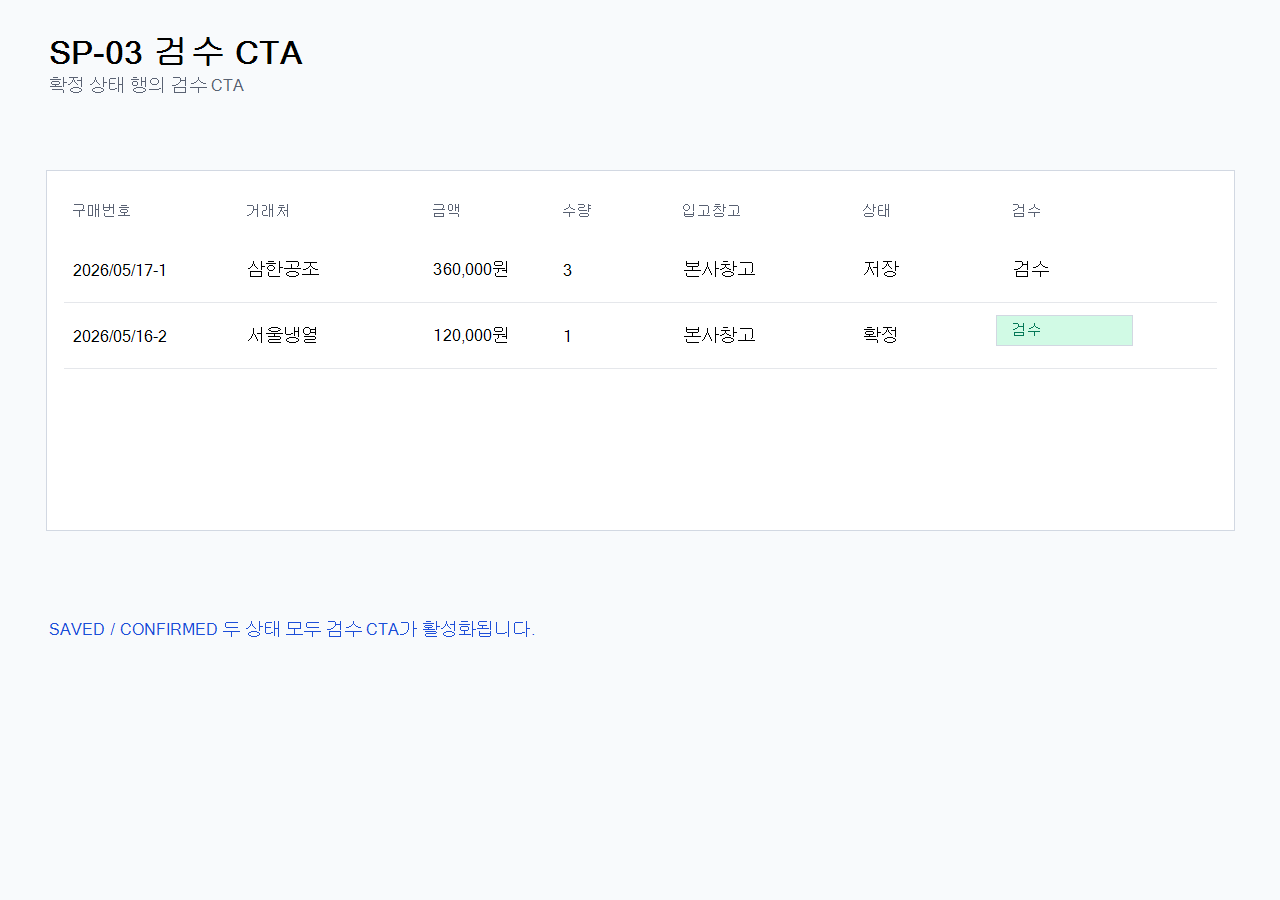
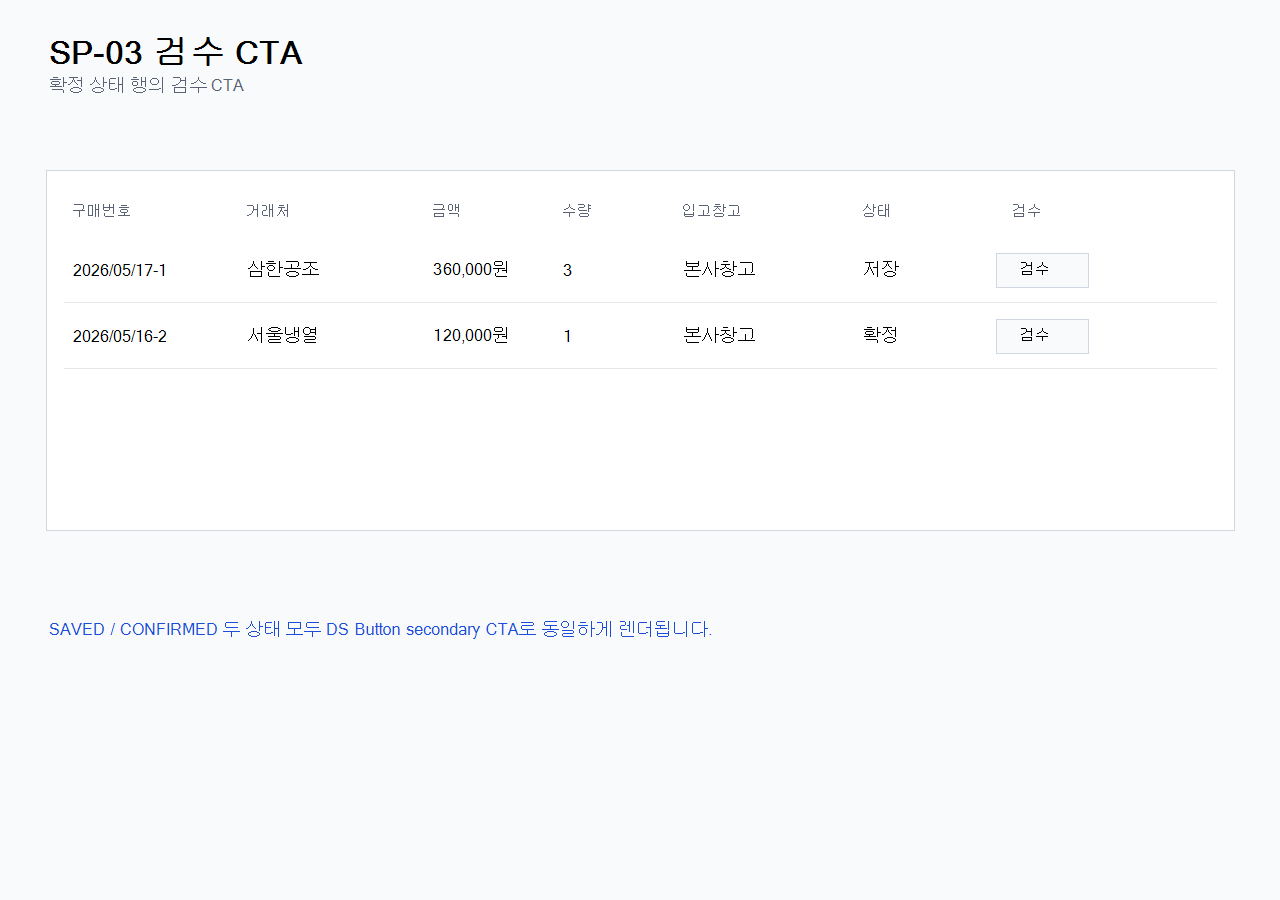
fix(sp-08-5-1): 사이클 2 2c Codex fix — P2 2건 마지막 cleanup + 메모리 6/7회차 정정 (PR 내 해결 + 멈춤 없이 자동)
Codex 5-agent 2a 자체 발견 P2 2건 처리. PR 내 모든 문제 해결 완료.

P2-1: SlipQueryPurchaseIT INBOUND detail negative auth IT 3건 신규
- testGetDetailForbiddenForInventory
- testGetDetailForbiddenForSales
- testGetDetailForbiddenForAccountant
- SlipController#getOne guardInboundPurchaseRead 회귀 보호

P2-2: PNG 05 05-confirmed-inspection-cta.png 재생성
- PurchaseQueryPage 실 구현 정합 (SAVED/CONFIRMED 모두 DS Button variant="secondary")
- 초록 custom CTA 제거

메모리 가드 (6회차 + 양쪽 TM 등록):
- feedback_dual_5agent_review.md: PR 내 모든 문제 해결 + 후속 슬라이스 백로그 금지 + PM 자동 머지 후 다음 슬라이스 자동 진입 (사용자 6회차)
- 2b TM Codex 통합 등록 의무 (PR #220 사이클 1 회고)

검증:
- Gradle IT 21 PASS (18 기존 + 3 detail negative)
- Desktop typecheck / lint PASS
- PNG 05 재생성
- git diff --check exit 0

연관 PR: #220

Changed region(s): [[0.25, 0.6844, 0.5312, 0.7156], [0.7812, 0.3422, 0.9062, 0.4044], [0.7812, 0.28, 0.8125, 0.3111]]

diff --git a/services/slip-service/src/test/java/com/samhanair/logis/slip/it/SlipQueryPurchaseIT.java b/services/slip-service/src/test/java/com/samhanair/logis/slip/it/SlipQueryPurchaseIT.java
@@ -294,6 +294,39 @@ class SlipQueryPurchaseIT extends AbstractPostgresIT {
     }
 
     @Test
+    @DisplayName("R2: INVENTORY는 INBOUND 매입 상세 조회 권한에서 제외된다")
+    void testGetDetailForbiddenForInventory() throws Exception {
+        String id = createSlip("INBOUND", TODAY, "SP0851-DETAIL-INVENTORY-FORBIDDEN");
+
+        mockMvc.perform(get(SLIPS_PATH + "/" + id)
+                        .header(USER_ID_HEADER, TEST_USER_ID.toString())
+                        .header(USER_ROLE_HEADER, "INVENTORY"))
+                .andExpect(status().isForbidden());
+    }
+
+    @Test
+    @DisplayName("R2: SALES는 INBOUND 매입 상세 조회 권한에서 제외된다")
+    void testGetDetailForbiddenForSales() throws Exception {
+        String id = createSlip("INBOUND", TODAY, "SP0851-DETAIL-SALES-FORBIDDEN");
+
+        mockMvc.perform(get(SLIPS_PATH + "/" + id)
+                        .header(USER_ID_HEADER, TEST_USER_ID.toString())
+                        .header(USER_ROLE_HEADER, "SALES"))
+                .andExpect(status().isForbidden());
+    }
+
+    @Test
+    @DisplayName("R2: ACCOUNTANT는 INBOUND 매입 상세 조회 권한에서 제외된다")
+    void testGetDetailForbiddenForAccountant() throws Exception {
+        String id = createSlip("INBOUND", TODAY, "SP0851-DETAIL-ACCOUNTANT-FORBIDDEN");
+
+        mockMvc.perform(get(SLIPS_PATH + "/" + id)
+                        .header(USER_ID_HEADER, TEST_USER_ID.toString())
+                        .header(USER_ROLE_HEADER, "ACCOUNTANT"))
+                .andExpect(status().isForbidden());
+    }
+
+    @Test
     @DisplayName("R1: 같은 전표일자는 seqNo DESC 순으로 반환한다")
     void testListInboundOrderBySeqNo() throws Exception {
         String firstId = createSlip("INBOUND", TODAY, "SP0851-SEQ-1");

diff --git a/.claude/memory/feedback_dual_5agent_review.md b/.claude/memory/feedback_dual_5agent_review.md
@@ -69,10 +69,12 @@ metadata:
 - 사이클 N=3 안 완료 의무 (2026-05-17 4회차 정정)
 - 종료 시 사용자/PM 머지 결정 (`feedback_user_merge_authority.md` PM 자동 머지 가능)
 
-## 결함 fix 정책 (2026-05-17 사용자 정정 5회차 — 최종)
+## 결함 fix 정책 (2026-05-17 사용자 정정 6회차 — 최종)
 
-- **사이클 N=3 안 완료 의무** — PR 1건당 사이클 1, 2, 3 안에서 모든 결함 (P0/P1/P2/Nit/non-blocker) fix + 머지. 사이클 4 이상 진행 금지.
-- **사이클 1회 = Claude review → Claude fix → Codex review → Codex fix** (사용자 5회차 정정). 사이클 N.5 통합 fix 단계 폐기.
+- **PR 내 모든 문제 PR 안에서 해결** (2026-05-17 6회차) — P0/P1/P2/Nit/non-blocker 전부 본 PR 사이클 안에서 fix. **후속 슬라이스 백로그로 미루지 않음**. "후속 슬라이스 처리 가능", "non-blocker 백로그", "후속 cleanup" 등 표현 금지.
+- **사이클 N=3 안 완료 의무** — 사이클 1, 2, 3 안 모든 결함 fix + **PM 자동 머지** (사용자 확인 대기 X). 사이클 4 이상 진행 금지.
+- **PM 자동 머지 + 다음 슬라이스 자동 진입** — 결함 모두 해결 + CI green 시 사용자 확인 없이 squash 머지 + 다음 슬라이스 자동 시작.
+- **사이클 1회 = Claude review → Claude fix → Codex review → Codex fix** (5회차 정정). 사이클 N.5 통합 fix 단계 폐기.
 - **양쪽 fix 책임 분담**: Claude 는 자체 review 결함 + Codex valid 예상 결함 (선제적), Codex 는 자체 review 결함 + Claude valid 항목 중 미처리 보완.
 - **한 사이클당 가능한 한 모든 결함 묶어 fix** — Codex fix 직후 본 사이클 결함 0 도달이 목표.
 - **사이클 3 review 까지 잔존 결함 0 도달 못 한 경우**: blocker 만 fix 후 머지, Nit/non-blocker 는 후속 슬라이스 백로그.
@@ -83,6 +85,7 @@ metadata:
 ## 운영 규칙
 
 - **PR 코멘트는 TM 통합 2건** — Claude TM 통합 1 + Codex TM 통합 1 = **사이클 1회당 2 PR comment**. 가독성 우선, 각자 5+5=10 별도 등록 폐기 (2026-05-17 사용자 정정).
+- **양쪽 TM 통합 등록 의무** (2026-05-17 PR #220 사이클 1 회고): 5회차 워크플로우는 1b TM Claude 등록 → 1c Claude fix → **2a Codex review → 2b TM Codex 등록 필수** → 2c Codex fix. 2b 등록 누락하면 사용자가 양쪽 review 비교 불가. Codex fix 진행 전 반드시 2b PR comment 등록 검증.
 - **각 agent 5건 raw markdown** — 작업 산출물은 `docs/qa/<slug>/claude-{role}-cycle-N.md` / `codex-{role}-cycle-N.md` 로 저장만 (PR comment 등록 X, repo commit X). TM 통합 markdown 작성 시 source 자료.
 - **head SHA 명시** — TM 통합 코멘트 첫 줄에 "head `<sha>` 기준" 명시 (사이클별 추적).
 - **Codex CLI MCP 호출 규칙**:
